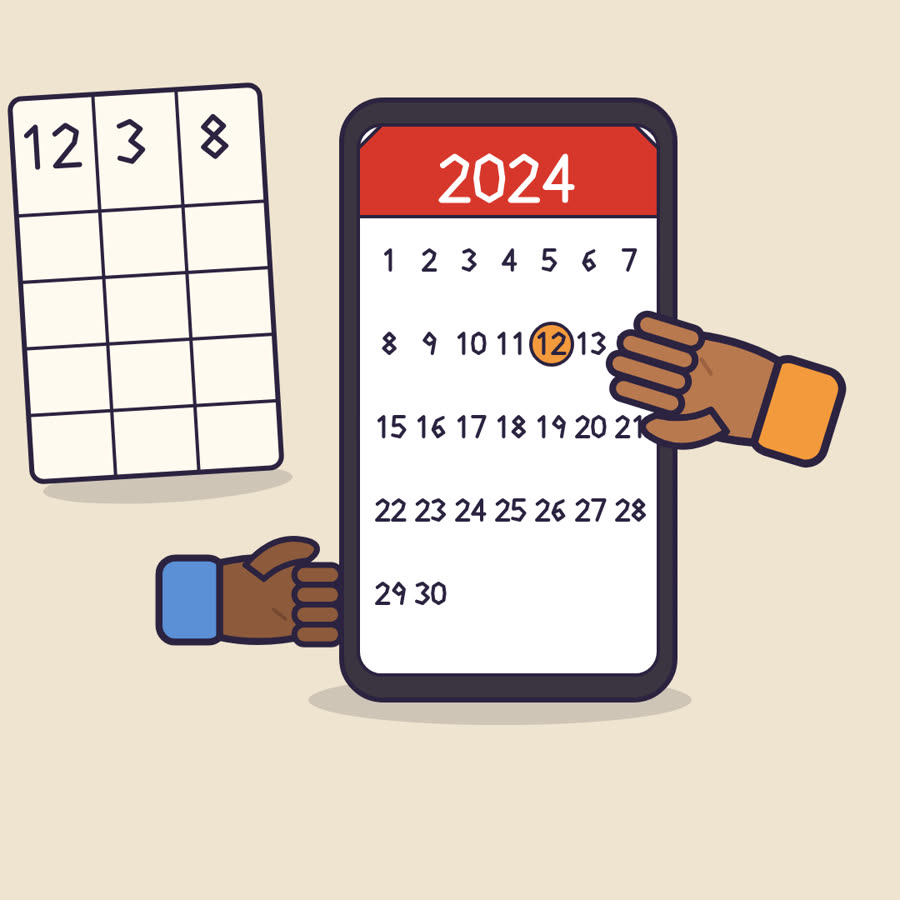
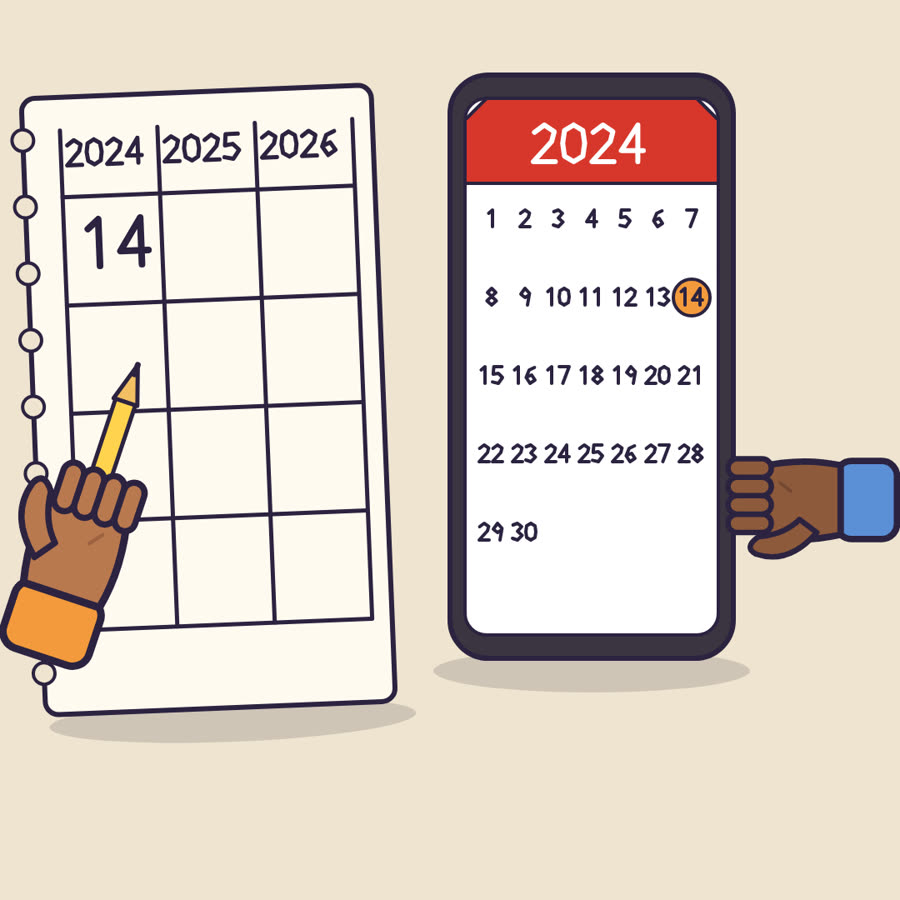
Science: more pictures and drawings for the new units
Claude-Session: https://claude.ai/code/session_01JToV3XHh1vEGaLuTjTUjQr

diff --git a/app/build/drawings/su_communityFestivals.ts b/app/build/drawings/su_communityFestivals.ts
@@ -1,5 +1,5 @@
 import type { Ctx } from "./core";
-import { D, BG, INK, WHITE, RED, COL, SKIN, CLOTH, ground, shape, ell, rrect, polyP, shadow, shade, line, shine, arrow, glass, bowl, hand, write, cards } from "./flatKit";
+import { D, BG, INK, WHITE, RED, COL, SKIN, CLOTH, ground, shape, ell, rrect, polyP, shadow, shade, line, shine, arrow, glass, bowl, hand, write, leaf, cards } from "./flatKit";
 
 // ---- shared pieces for the festival colour experiments
 const TURMERIC = "#f2b61f", TURMERIC_DK = "#d89a10", RED_LIQ = "#d63a2c", HIB = "#b04a7a";
@@ -34,11 +34,16 @@ const spoonOn = (c: Ctx, x0: number, y0: number, x1: number, y1: number, liquid:
 const e1_0 = (c: Ctx) => {
   ground(c);
   shape(c, () => rrect(c, 50, 120, 980, 840, 24), WHITE, 6);
-  const xs = [165, 395, 625, 855];
-  [[360, 0], [700, 4]].forEach(([y, o]) => xs.forEach((x, i) => {
-    bowl(c, x, y, 95, TURMERIC); c.beginPath(); ell(c, x - 22, y - 2, 28, 5); c.fillStyle = "rgba(255,255,255,0.45)"; c.fill();
-    shape(c, () => rrect(c, x - 45, y + 82, 90, 56, 8), COL.paper, 4);
-    write(c, String(i + 1 + o), x - 14, y + 92, 36, INK, 5);
+  const xs = [195, 425, 655, 885];
+  [[340, 0], [720, 4]].forEach(([y, o]) => xs.forEach((x, i) => {
+    const r = 105, body = () => { c.moveTo(x - r, y); c.bezierCurveTo(x - r * 0.95, y + r * 0.95, x + r * 0.95, y + r * 0.95, x + r, y); c.closePath(); };
+    shadow(c, x + 12, y + r * 0.78, r * 0.9, r * 0.14);
+    shape(c, body, COL.steel); shade(c, body, COL.steelDk, r * 0.35, -r * 0.05);
+    shape(c, () => ell(c, x, y, r, r * 0.4), COL.steelIn, 5);
+    shape(c, () => ell(c, x, y + 4, r * 0.82, r * 0.3), TURMERIC, 4);
+    c.beginPath(); ell(c, x - r * 0.3, y, r * 0.3, r * 0.06); c.fillStyle = "rgba(255,255,255,0.5)"; c.fill();
+    shape(c, () => rrect(c, x - 45, y + 92, 90, 56, 8), COL.paper, 4);
+    write(c, String(i + 1 + o), x - 14, y + 102, 36, INK, 5);
   }));
 };
 // setup.e1.1
@@ -72,48 +77,71 @@ const petal = (c: Ctx, x: number, y: number, r: number, rot: number) => {
 const e2_0 = (c: Ctx) => {
   ground(c);
   bowl(c, 600, 700, 340, HIB);
-  c.beginPath(); ell(c, 600, 700, 250, 40); c.fillStyle = "#c4608f"; c.fill();
-  [[460, 690, 60, 0.3], [560, 720, 54, 2.4], [660, 690, 60, 4.0], [740, 725, 50, 1.2], [610, 668, 48, 5.2], [520, 668, 44, 3.3], [700, 650, 40, 0.8]].forEach(([x, y, r, a]) => petal(c, x, y, r, a));
-  for (const [x, s] of [[470, 1], [590, 1.2], [720, 0.9]]) line(c, [[x, 520], [x - 18 * s, 470], [x + 14 * s, 420], [x - 8 * s, 365]], 9, "rgba(255,255,255,0.8)");
-  hand(c, 250, 520, 0.62, 2.8, SKIN.child, CLOTH.child, true);
+  c.beginPath(); ell(c, 600, 700, 250, 42); c.fillStyle = "#c4608f"; c.fill();
+  c.beginPath(); ell(c, 585, 700, 150, 28); c.fillStyle = "#9a3d78"; c.fill();
+  [[480, 705, 50, 0.3], [560, 722, 46, 2.4], [650, 700, 50, 4.0], [720, 715, 44, 1.2], [600, 685, 42, 5.2], [520, 685, 38, 3.3]].forEach(([x, y, r, a]) => petal(c, x, y, r, a));
+  // one whole hibiscus flower, so the petals are known
+  for (let k = 0; k < 5; k++) { const a = (k / 5) * Math.PI * 2 - 1.2; petal(c, 880 + Math.cos(a) * 62, 250 + Math.sin(a) * 62, 62, a); }
+  shape(c, () => ell(c, 880, 250, 22, 22), "#6e1428", 4); line(c, [[880, 250], [930, 190]], 6, COL.yellow); shape(c, () => ell(c, 934, 186, 11, 11), COL.yellow, 4);
+  // a hand rubbing the petals in the warm water
+  hand(c, 374, 545, 0.62, 2.6, SKIN.child, CLOTH.child, true);
+  arrow(c, [[690, 585], [840, 585]]); arrow(c, [[840, 630], [690, 630]]);
 };
 // setup.e2.1
 const e2_1 = (c: Ctx) => {
   ground(c);
-  const xs = [200, 540, 880];
-  glass(c, xs[0], 620, 250, 360, 0.75, "#ef6a98"); glass(c, xs[1], 620, 250, 360, 0.75, "#6fbf55"); glass(c, xs[2], 620, 250, 360, 0.75, COL.purple);
-  lemon(c, xs[0], 840, 90);
-  // soap bar
-  shadow(c, xs[1] + 14, 905, 110, 20);
-  shape(c, () => rrect(c, xs[1] - 100, 790, 200, 110, 34), "#cfe8f6", 6); shade(c, () => rrect(c, xs[1] - 100, 790, 200, 110, 34), "#9cc3dd", 22, 8, 0.5);
-  shape(c, () => ell(c, xs[1] + 55, 790, 28, 28), WHITE, 4); shape(c, () => ell(c, xs[1] + 100, 760, 16, 16), WHITE, 4);
-  // plain water in a katori
-  bowl(c, xs[2], 810, 100, COL.water);
-  [xs[0], xs[1], xs[2]].forEach((x) => arrow(c, [[x, 730], [x, 690]]));
+  const xs = [210, 535, 860], JUICE = COL.purple;
+  xs.forEach((x) => glass(c, x, 940, 220, 340, 0.6, JUICE));
+  // lemon squeezed into the first glass
+  lemonHalf(c, xs[0], 330, 110, 120);
+  hand(c, xs[0], 140, Math.PI / 2, 1.5);
+  [400, 480, 560].forEach((y) => drop(c, xs[0], y, 15, COL.yellow));
+  // soapy water (bubbles) and plain water poured from katoris into the other two
+  const pour = (x: number, liquid: string, bubbles: boolean) => {
+    c.save(); c.translate(x + 25, 250); c.rotate(-0.6); bowl(c, 0, 0, 78, liquid);
+    if (bubbles) for (const [bx, by, br] of [[-30, -4, 13], [-5, 4, 16], [22, -3, 12], [-48, 6, 9]]) shape(c, () => ell(c, bx, by, br, br * 0.7), WHITE, 3);
+    c.restore();
+    hand(c, x + 90, 110, Math.PI / 2 + 0.5, 1.4);
+    line(c, [[x - 39, 300], [x - 39, 690]], 14, liquid);
+    arrow(c, [[x + 60, 430], [x + 60, 540]]);
+  };
+  pour(xs[1], "#d8eef7", true);
+  pour(xs[2], COL.water, false);
 };
 
 // ---- e3: festival dates over three years
 // setup.e3.0
 const e3_0 = (c: Ctx) => {
   ground(c);
-  // notebook on the left
-  c.save(); c.translate(175, 340); c.rotate(-0.06);
-  shadow(c, 12, 242, 150, 22);
-  shape(c, () => rrect(c, -150, -230, 300, 460, 14), COL.paper, 6);
-  for (let i = 0; i < 4; i++) line(c, [[-150, -90 + i * 80], [150, -90 + i * 80]], 4);
-  line(c, [[-50, -230], [-50, 230]], 4); line(c, [[50, -230], [50, 230]], 4);
-  write(c, "12", -138, -195, 48, INK, 6); write(c, "3", -22, -195, 48, INK, 6); write(c, "8", 78, -195, 48, INK, 6);
+  // the notebook with an empty table: three year columns, rows to fill
+  c.save(); c.translate(250, 480); c.rotate(-0.04);
+  shadow(c, 14, 385, 220, 26);
+  shape(c, () => rrect(c, -210, -370, 420, 740, 16), COL.paper, 6);
+  for (let i = 0; i < 9; i++) shape(c, () => ell(c, -210, -320 + i * 80, 13, 13), BG, 4);
+  for (let i = 0; i < 5; i++) line(c, [[-165, -250 + i * 130], [185, -250 + i * 130]], 5);
+  for (let i = 0; i < 4; i++) line(c, [[-165 + i * 117, -330], [-165 + i * 117, 270]], 5);
+  ["2024", "2025", "2026"].forEach((t, i) => write(c, t, -158 + i * 117, -318, 30, INK, 5));
+  write(c, "14", -143, -222, 56, INK, 8);
   c.restore();
-  // the phone with a month calendar
-  shadow(c, 600, 840, 230, 30);
-  shape(c, () => rrect(c, 410, 120, 400, 720, 50), COL.black, 6);
-  shape(c, () => rrect(c, 430, 150, 360, 660, 28), WHITE, 4);
-  shape(c, () => polyP(c, [[430, 178], [458, 150], [762, 150], [790, 178], [790, 260], [430, 260]]), RED, 4);
-  write(c, "2024", 530, 188, 52, WHITE, 7);
-  for (let i = 0; i < 30; i++) { const cx = 450 + (i % 7) * 48, cy = 300 + Math.floor(i / 7) * 100; if (i === 11) shape(c, () => ell(c, cx + 20, cy + 13, 25, 25), COL.orange, 4); write(c, String(i + 1), cx + (i < 9 ? 10 : 2), cy, 24, INK, 4); }
-  // the grown-up's hand holds the phone, the child's hand points at a day
-  hand(c, 300, 720, 0, 1.4, SKIN.adult, CLOTH.adult);
-  hand(c, 880, 470, Math.PI + 0.3, 1.6, SKIN.child, CLOTH.child, true);
+  // the phone with a month calendar, one day marked
+  shadow(c, 710, 805, 190, 26);
+  shape(c, () => rrect(c, 540, 90, 340, 700, 46), COL.black, 6);
+  shape(c, () => rrect(c, 558, 118, 304, 644, 26), WHITE, 4);
+  shape(c, () => polyP(c, [[558, 144], [584, 118], [836, 118], [862, 144], [862, 220], [558, 220]]), RED, 4);
+  write(c, "2024", 640, 150, 44, WHITE, 6);
+  for (let i = 0; i < 30; i++) {
+    const cx = 572 + (i % 7) * 40, cy = 252 + Math.floor(i / 7) * 94;
+    if (i === 13) shape(c, () => ell(c, cx + 18, cy + 11, 22, 22), COL.orange, 4);
+    write(c, String(i + 1), cx + (i < 9 ? 12 : 3), cy, 20, INK, 4);
+  }
+  // the grown-up holds the phone; the child writes in the notebook
+  hand(c, 975, 600, Math.PI, 1.3, SKIN.adult, CLOTH.adult);
+  const ux = 0.315, uy = -0.949, wx = 86, wy = 677, at = (d: number): number[] => [wx + ux * d, wy + uy * d];
+  const pencil = (d0: number, d1: number, w: number, col: string) => line(c, [at(d0), at(d1)], w, col);
+  pencil(30, 205, 30, INK); pencil(30, 205, 20, COL.yellow);
+  shape(c, () => polyP(c, [[at(205)[0] - uy * 15, at(205)[1] + ux * 15], [at(205)[0] + uy * 15, at(205)[1] - ux * 15], at(252)]), COL.wood, 5);
+  pencil(240, 252, 7, INK);
+  hand(c, wx, wy, Math.atan2(uy, ux), 1.5);
 };
 // setup.e3.1
 const e3_1 = (c: Ctx) => {
@@ -123,24 +151,51 @@ const e3_1 = (c: Ctx) => {
   for (let i = 0; i < 9; i++) shape(c, () => ell(c, 90, 140 + i * 90, 12, 12), BG, 4);
   const colx = [440, 620, 800];
   ["2024", "2025", "2026"].forEach((t, i) => write(c, t, colx[i] - 26, 100, 40, INK, 6));
-  const rows: [string[], boolean][] = [[["26", "26", "26"], true], [["15", "15", "15"], true], [["2", "2", "2"], true], [["1", "20", "8"], false], [["25", "14", "4"], false], [["10", "31", "20"], false]];
+  const rows: [string[], boolean][] = [[["14", "14", "14"], true], [["15", "15", "15"], true], [["25", "25", "25"], true], [["1", "20", "8"], false], [["25", "14", "4"], false], [["10", "31", "20"], false]];
   const icons = [
-    (x: number, y: number) => { shape(c, () => rrect(c, x - 40, y - 24, 80, 18, 2), "#f39a3c", 4); shape(c, () => rrect(c, x - 40, y - 6, 80, 18, 2), WHITE, 4); shape(c, () => rrect(c, x - 40, y + 12, 80, 18, 2), COL.green, 4); },
-    (x: number, y: number) => { line(c, [[x, y + 6], [x - 10, y + 30], [x + 12, y + 40]], 4); shape(c, () => polyP(c, [[x, y - 36], [x + 30, y - 4], [x, y + 8], [x - 30, y - 4]]), COL.pink, 5); },
-    (x: number, y: number) => { shape(c, () => ell(c, x - 24, y, 20, 20), COL.glass, 5); shape(c, () => ell(c, x + 24, y, 20, 20), COL.glass, 5); line(c, [[x - 4, y], [x + 4, y]], 5); },
-    (x: number, y: number) => { for (let k = 0; k < 6; k++) { const a = (k / 6) * Math.PI * 2; shape(c, () => ell(c, x + Math.cos(a) * 24, y + Math.sin(a) * 24, 16, 16), k % 2 ? COL.orange : COL.pink, 4); } shape(c, () => ell(c, x, y, 13, 13), COL.yellow, 4); },
-    (x: number, y: number) => { for (const [dx, dy, col] of [[-22, -12, COL.pink], [20, -14, COL.blue], [0, 18, COL.yellow], [26, 16, COL.green]] as [number, number, string][]) shape(c, () => ell(c, x + dx, y + dy, 18, 18), col, 4); },
-    (x: number, y: number) => { shape(c, () => { c.arc(x, y, 34, 0.9, Math.PI * 2 - 0.9); c.arc(x + 14, y, 26, Math.PI * 2 - 1.1, 1.1, true); c.closePath(); }, COL.yellow, 5); },
+    // Pongal: a clay pot boiling over, and sugarcane
+    (x: number, y: number) => {
+      line(c, [[x + 50, y + 44], [x + 56, y - 40]], 10, INK); line(c, [[x + 50, y + 44], [x + 56, y - 40]], 5, COL.green); leaf(c, x + 54, y - 20, 36, -2.4); leaf(c, x + 54, y - 36, 36, -0.7);
+      shape(c, () => ell(c, x - 6, y + 12, 40, 32), "#c9683a", 5); shape(c, () => rrect(c, x - 28, y - 22, 44, 14, 5), "#a8512a", 5);
+      for (const [dx, dy, r] of [[-26, -26, 11], [-8, -34, 14], [10, -28, 11], [-34, -12, 8]]) shape(c, () => ell(c, x + dx, y + dy, r, r), WHITE, 4);
+    },
+    // Independence Day: the flag on a pole
+    (x: number, y: number) => {
+      line(c, [[x - 44, y - 44], [x - 44, y + 50]], 8, INK);
+      shape(c, () => rrect(c, x - 40, y - 40, 92, 22, 2), "#f39a3c", 4); shape(c, () => rrect(c, x - 40, y - 18, 92, 22, 2), WHITE, 4); shape(c, () => rrect(c, x - 40, y + 4, 92, 22, 2), COL.green, 4);
+      c.beginPath(); ell(c, x + 6, y - 7, 9, 9); c.strokeStyle = COL.blueDk; c.lineWidth = 4; c.stroke();
+    },
+    // Christmas: a tree with a star
+    (x: number, y: number) => {
+      c.save(); c.translate(x, y - 12); c.scale(0.75, 0.75); c.translate(-x, -y);
+      shape(c, () => rrect(c, x - 8, y + 30, 16, 22, 2), COL.brown, 4);
+      for (const [w, t] of [[44, 4], [36, -20], [28, -42]]) shape(c, () => polyP(c, [[x, y + t - 22], [x + w, y + t + 26], [x - w, y + t + 26]]), COL.green, 5);
+      shape(c, () => polyP(c, [[x, y - 74], [x + 7, y - 58], [x + 22, y - 58], [x + 10, y - 48], [x + 15, y - 34], [x, y - 44], [x - 15, y - 34], [x - 10, y - 48], [x - 22, y - 58], [x - 7, y - 58]]), COL.yellow, 4);
+      shape(c, () => ell(c, x - 16, y + 12, 7, 7), RED, 3); shape(c, () => ell(c, x + 14, y - 12, 7, 7), RED, 3);
+      c.restore();
+    },
+    // Diwali: a rangoli pattern
+    (x: number, y: number) => {
+      for (let k = 0; k < 8; k++) { const a = (k / 8) * Math.PI * 2; shape(c, () => ell(c, x + Math.cos(a) * 34, y + Math.sin(a) * 34, 17, 10, a), k % 2 ? COL.orange : COL.pink, 4); }
+      shape(c, () => ell(c, x, y, 14, 14), COL.yellow, 4);
+      for (let k = 0; k < 8; k++) { const a = (k / 8) * Math.PI * 2 + 0.4; shape(c, () => ell(c, x + Math.cos(a) * 54, y + Math.sin(a) * 54, 5, 5), COL.purple, 3); }
+    },
+    // Holi: puffs of coloured powder
+    (x: number, y: number) => { for (const [dx, dy, col] of [[-26, -14, COL.pink], [24, -16, COL.blue], [-4, 16, COL.yellow], [30, 18, COL.green], [-34, 22, COL.orange]] as [number, number, string][]) shape(c, () => ell(c, x + dx, y + dy - 6, 20, 20), col, 4); },
+    // Eid: the crescent moon and a star
+    (x: number, y: number) => {
+      shape(c, () => { c.arc(x - 8, y, 36, 0.9, Math.PI * 2 - 0.9); c.arc(x + 6, y, 28, Math.PI * 2 - 1.1, 1.1, true); c.closePath(); }, COL.yellow, 5);
+      shape(c, () => polyP(c, [[x + 40, y - 20], [x + 45, y - 8], [x + 58, y - 8], [x + 48, y], [x + 52, y + 12], [x + 40, y + 5], [x + 28, y + 12], [x + 32, y], [x + 22, y - 8], [x + 35, y - 8]]), COL.yellow, 4);
+    },
   ];
   rows.forEach(([d, same], r) => {
     const y = 200 + r * 120;
     if (r) line(c, [[110, y - 45], [980, y - 45]], 3, COL.grey);
     icons[r](210, y + 30);
     d.forEach((t, i) => write(c, t, colx[i] - (t.length - 1) * 20, y, 56, INK, 8));
-    shape(c, () => rrect(c, 360, y - 20, 560, 100, 50), "rgba(0,0,0,0)", 0);
     c.beginPath(); rrect(c, 355, y - 18, 560, 96, 48); c.strokeStyle = same ? COL.green : COL.orange; c.lineWidth = 10; c.stroke();
   });
-  line(c, [[110, 200 + 3 * 120 - 45], [980, 200 + 3 * 120 - 45]], 8, INK);
+  line(c, [[110, 530], [980, 530]], 8, INK);
 };
 
 export const su_communityFestivals = cards("sci.community.festivals.L3 set-up", [e1_0, e1_1, e1_2, e2_0, e2_1, e3_0, e3_1]);
